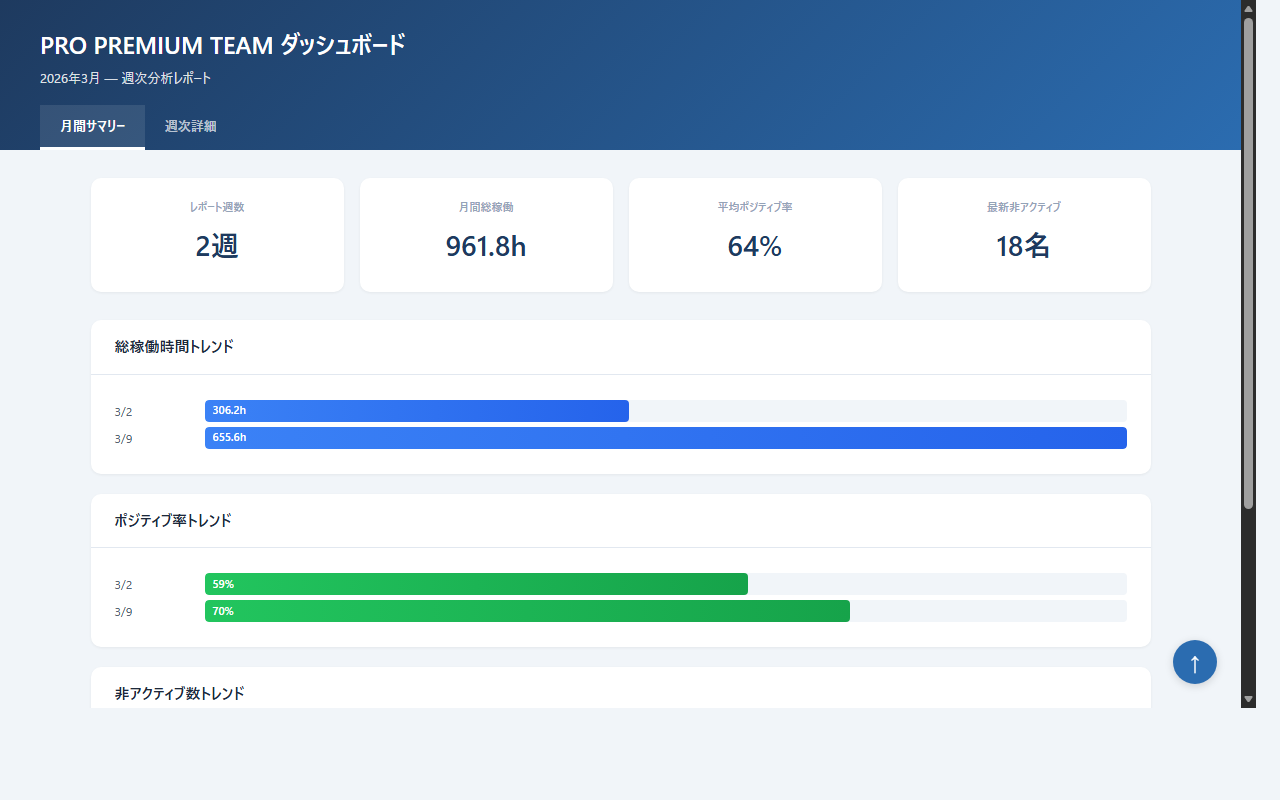
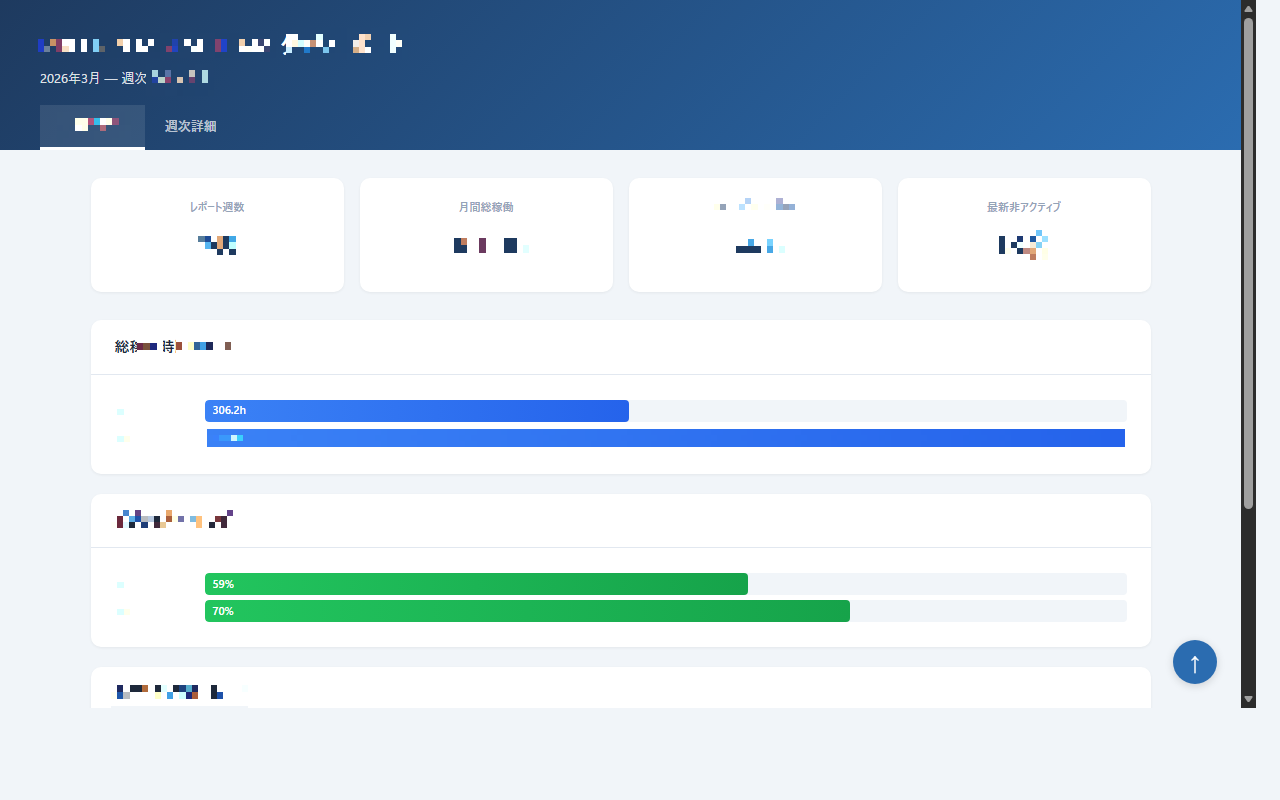
ポートフォリオ更新: 画像モザイク・企業名匿名化・CTA削除
- Works画像6枚の文字領域にモザイク処理（機密情報保護）
- SHIFT AI → AIスクール、SNK → アルミダイキャスト製造業に匿名化
- CTAセクション・LINEボタン削除、フッターに依頼リンク追加
- Heroタイトル「人が」削除、スキル凡例追加

diff --git a/01_company/CEO/portfolio/index.html b/01_company/CEO/portfolio/index.html
@@ -610,6 +610,20 @@ section { padding: 100px 0; }
   border-color: var(--primary);
 }
 
+.skills-legend {
+  font-size: 0.78rem; color: var(--text-muted);
+  display: flex; align-items: center; justify-content: center; gap: 16px;
+  margin-top: -28px; margin-bottom: 12px;
+}
+.legend-chip {
+  display: inline-block; width: 14px; height: 14px; border-radius: 3px;
+  border: 1px solid var(--primary); vertical-align: middle;
+  margin-right: 4px; position: relative; top: -1px;
+}
+.legend-chip.highlight {
+  background: var(--primary);
+}
+
 /* Process */
 .process { background: var(--bg); }
 .steps {
@@ -687,7 +701,8 @@ footer {
   background: var(--primary-dark); color: rgba(255, 255, 255, 0.5);
   padding: 40px 0; text-align: center; font-size: 0.82rem;
 }
-footer a { color: var(--accent-light); }
+footer a { color: var(--accent-light); text-decoration: underline; }
+.footer-contact { font-size: 0.95rem; margin-bottom: 12px; color: rgba(255,255,255,0.7); }
 
 /* スクロールアニメーション */
 .fi {
@@ -758,7 +773,6 @@ footer a { color: var(--accent-light); }
     <li><a href="#works">Works</a></li>
     <li><a href="#skills">Skills</a></li>
   </ul>
-  <a href="#contact" class="nav-cta">LINE で相談する</a>
   <button class="nav-hamburger" id="hamburger" aria-label="メニューを開く">
     <span></span><span></span><span></span>
   </button>
@@ -786,13 +800,9 @@ footer a { color: var(--accent-light); }
   <div class="section-inner">
     <div class="hero-content">
       <p class="hero-eyebrow fi">SAEKA's Portfolio</p>
-      <h1 class="fi delay-1">人が本業に集中できる<br>時間を、<span class="accent">AIでつくる。</span></h1>
-      <p class="hero-sub fi delay-2">150人以上のAI活用コンサルティングを実施。製造業DX推進リーダーとSHIFT AIコンサルティングコーチの二足の草鞋で、日本をAIの先進国へ。</p>
+      <h1 class="fi delay-1">本業に集中できる<br>時間を、<span class="accent">AIでつくる。</span></h1>
+      <p class="hero-sub fi delay-2">150人以上のAI活用コンサルティングを実施。製造業DX推進リーダーと日本トップクラスのAIスクールビジネスのコンサルティングコーチの二足の草鞋で、日本をAIの先進国へ。</p>
       <div class="hero-cta-group fi delay-3">
-        <a href="#contact" class="btn-primary">
-          <span class="material-icons">chat</span>
-          LINE で気軽に相談する
-        </a>
         <a href="#works" class="btn-outline">
           <span class="material-icons">work</span>
           実績を見る
@@ -822,12 +832,12 @@ footer a { color: var(--accent-light); }
       </div>
       <div class="about-text">
         <p class="section-eyebrow fi">About</p>
-        <h2 class="section-title fi delay-1">珈琲店の娘から、<br><span class="accent">AI社会実装</span>の最前線へ。</h2>
+        <h2 class="section-title fi delay-1">現場から、<br><span class="accent">AI社会実装</span>の最前線へ。</h2>
         <p class="about-lead fi delay-2">冴香（SAEKA） / 岐阜県在住</p>
         <div class="about-story fi delay-2">
           <p>自家焙煎珈琲販売店・喫茶店を営む家庭の次女として育つ。高校卒業後、製造業に入社し経理・総務・人事と管理部門を経験。「現場を変えたい」という想いで技術職への異動を直訴し、品質保証・生産技術の世界へ。赤字工場を6ヶ月で黒字化し、歴代最年少・女性初のスピード昇進で課長に就任しました。</p>
           <p>2017年、父の他界をきっかけに実家の喫茶店の経営企画にも携わり始め、2025年にはAIを活用したマルシェ企画でフォロワー1,000人増加・売上UPを実現。この経験が「AIで身近な困りごとを解決する」という事業の原点になりました。</p>
-          <p>現在はSHIFT AI社のコンサルティングコーチとして150人以上の会員にAI活用支援を実施しながら、本業では製造業のDX推進リーダーも担い、「日本をAIの先進国へ」をモットーにAI社会実装の第一人者として活動しています。</p>
+          <p>現在は日本トップクラスのAIスクールビジネスのコンサルティングコーチとして150人以上の会員にAI活用支援を実施しながら、本業では製造業のDX推進リーダーも担い、「日本をAIの先進国へ」をモットーにAI社会実装の第一人者として活動しています。</p>
         </div>
         <div class="about-timeline fi delay-3">
           <div class="about-timeline-item">
@@ -860,7 +870,7 @@ footer a { color: var(--accent-light); }
           </div>
           <div class="about-timeline-item">
             <span class="about-timeline-year">2025.12</span>
-            <span class="about-timeline-text">SHIFT AI社 コンサルティングコーチに採用</span>
+            <span class="about-timeline-text">日本トップクラスのAIスクールビジネスにてコンサルティングコーチに採用</span>
           </div>
           <div class="about-timeline-item">
             <span class="about-timeline-year">2026.02</span>
@@ -982,7 +992,7 @@ footer a { color: var(--accent-light); }
           <img src="works/work1.png" alt="週次会員分析ダッシュボード">
         </div>
         <div class="work-card-body">
-          <span class="work-card-tag">SHIFT AI</span>
+          <span class="work-card-tag">AIスクール</span>
           <h3>週次会員分析ダッシュボード</h3>
           <p>PRO/PREMIUM 55名の稼働・日報・マネタイズデータを自動集計。毎週月曜7:00にSlackへ自動投稿。非アクティブ会員の早期検出で離脱防止に貢献。</p>
           <div class="work-card-techs">
@@ -996,7 +1006,7 @@ footer a { color: var(--accent-light); }
           <img src="works/work2.png" alt="PLダッシュボード">
         </div>
         <div class="work-card-body">
-          <span class="work-card-tag">SNK</span>
+          <span class="work-card-tag">アルミダイキャスト製造業</span>
           <h3>GASコードでPLダッシュボード作成</h3>
           <p>Excelを使わず、Google Apps Script（GAS）で5部門の月次損益データを自動集計・可視化。さらに製品タスク300アイテムのタスクダッシュボードも構築し実運用中。</p>
           <div class="work-card-techs">
@@ -1010,7 +1020,7 @@ footer a { color: var(--accent-light); }
           <img src="works/work3.png" alt="PRO初回面談マニュアル">
         </div>
         <div class="work-card-body">
-          <span class="work-card-tag">SHIFT AI</span>
+          <span class="work-card-tag">AIスクール</span>
           <h3>PRO初回面談マニュアル自動生成</h3>
           <p>Google Docs APIで34件の面談文字起こしを一括取得・分析。パターン抽出からキャリアパス提案ガイド、対応例集まで体系的なマニュアルを自動生成。</p>
           <div class="work-card-techs">
@@ -1052,7 +1062,7 @@ footer a { color: var(--accent-light); }
           <img src="works/work6.png" alt="タスクダッシュボード">
         </div>
         <div class="work-card-body">
-          <span class="work-card-tag">SNK</span>
+          <span class="work-card-tag">アルミダイキャスト製造業</span>
           <h3>タスク一覧表</h3>
           <p>300個の製品アイテムのタスクボードをチームで共有するダッシュボードを作成。ステータス管理・担当別フィルタ・期日遅れ検出でプロジェクト進捗を一目で把握。</p>
           <div class="work-card-techs">
@@ -1078,6 +1088,7 @@ footer a { color: var(--accent-light); }
       <p class="section-eyebrow fi">Skills</p>
       <h2 class="section-title fi delay-1">スキル<span class="accent">セット</span></h2>
       <p class="section-lead center fi delay-2">AI技術・開発力・経営視点の3軸で、現場で使える仕組みを構築します。</p>
+      <p class="skills-legend fi delay-2"><span class="legend-chip highlight"></span>メインスキル <span class="legend-chip"></span>対応可能</p>
     </div>
     <div class="skills-grid">
       <div class="skill-category fi delay-1">
@@ -1215,23 +1226,11 @@ footer a { color: var(--accent-light); }
   </svg>
 </div>
 
-<!-- ===== CTA ===== -->
-<section class="cta-section" id="contact">
-  <div class="section-inner">
-    <p class="section-eyebrow text-center fi" style="color: var(--accent-light);">Contact</p>
-    <h2 class="fi delay-1">まずは気軽に、<span style="color: var(--accent-light);">お話ししませんか？</span></h2>
-    <p class="fi delay-2">「AIって何ができるの？」「うちの業務にも使える？」そんな疑問からで大丈夫。LINEで気軽にご相談ください。</p>
-    <a href="https://line.me/R/ti/p/@410kolrq" class="btn-line fi delay-3">
-      <span class="material-icons">chat</span>
-      LINE で友だち追加する
-    </a>
-    <p class="cta-note fi delay-3">無料相談 / 営業メッセージは送りません</p>
-  </div>
-</section>
 
 <!-- フッター -->
 <footer>
   <div class="section-inner">
+    <p class="footer-contact"><a href="https://line.me/R/ti/p/@410kolrq" target="_blank" rel="noopener">お仕事の依頼はこちらから</a></p>
     <p>&copy; 2025 SAEKA. All Rights Reserved.</p>
   </div>
 </footer>
